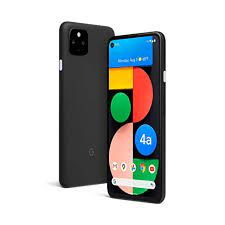
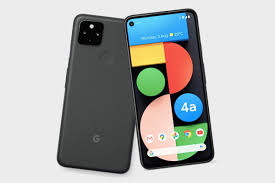
edit prduct details

diff --git a/routes/admin.js b/routes/admin.js
@@ -54,8 +54,13 @@ router.get('/edit-product/:id',async (req,res)=>{
 })
 
 router.post('/edit-products/:id',(req,res)=>{
+  let id=req.params.id
   productHelpers.updateProduct(req.params.id,req.body).then(()=>{
     res.redirect('/admin')
+    if(req.files.Image){
+      let image=req.files.Image
+      image.mv('./public/product-images/' + id + '.jpg')
+    }
   })
 })
 
